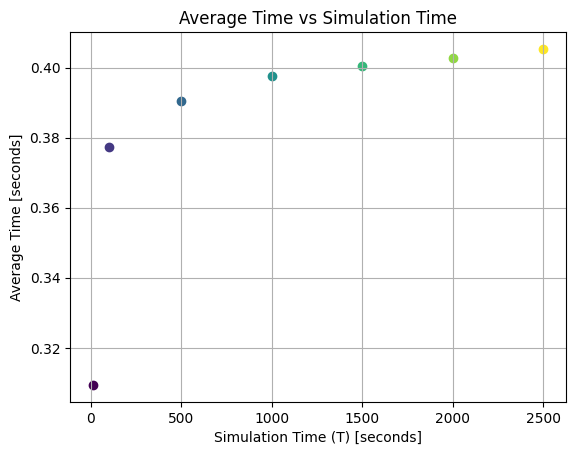
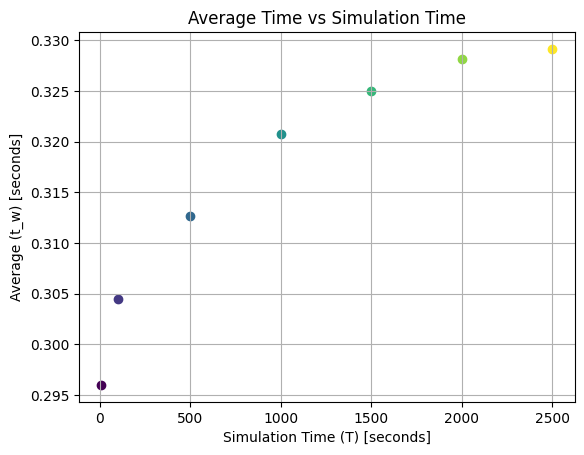
done

Changed region(s): [[0.0, 0.0, 1.0, 0.9846]]

diff --git a/simulationPlotter.py b/simulationPlotter.py
@@ -3,7 +3,7 @@ import numpy as np
 import matplotlib.pyplot as plt
 
 class Myargs:
-    def __init__(self, T, N=1, M=1, probabilities=[[1]], arrival_rates=[9], queue_sizes=[1000], handling_rates=[12]):
+    def __init__(self, T, queue_sizes, N=1, M=1, probabilities=[[1]], arrival_rates=[9], handling_rates=[12]):
         self.T = T
         self.N = N
         self.M = M
@@ -22,7 +22,7 @@ def plot(queue_sizes):
         args = Myargs(T, queue_sizes)
         for _ in range(num_runs):
             sim = simulator.Simulator(args.T, args.N, args.M, args.ouput_queue_sizes, args.arrival_rates, args.handling_rates, args.probs)
-            avg_times_per_run.append(sum([x for x in sim.runSimulation()]))
+            avg_times_per_run.append(sim.runSimulation()[0])
         avg_time = np.mean(avg_times_per_run)
         avg_times.append(avg_time)
         
@@ -32,9 +32,8 @@ def plot(queue_sizes):
         plt.scatter(T_values[i], avg_times[i], marker='o', color=color, label=f'T = {T_values[i]}')
 
     # Plotting
-    # plt.plot(T_values, avg_wait_times, marker='o')
     plt.xlabel('Simulation Time (T) [seconds]')
-    plt.ylabel('Average Time [seconds]')
+    plt.ylabel('Average (t_w) [seconds]')
     plt.title('Average Time vs Simulation Time')
     plt.grid(True)
     # plt.show()
@@ -43,4 +42,4 @@ def plot(queue_sizes):
 
 if __name__ == "__main__":
     plot(queue_sizes=[1000])
-    # plot(queue_sizes=[5])
+    plot(queue_sizes=[5])

diff --git a/simulator.py b/simulator.py
@@ -121,8 +121,8 @@ class Simulator:
           self.end_time = max(process_end_times)
           
       #collect statistics
-      t_w = self.TotalWaitTime / self.Y
-      t_s = self.TotalServiceTime / self.Y
+      t_w = round(self.TotalWaitTime / self.Y, 2)
+      t_s = round(self.TotalServiceTime / self.Y, 2)
 
       handled_events_per_queue_str = ' '.join(map(str, self.y))
       thrown_events_per_queue_str = ' '.join(map(str, self.x))
